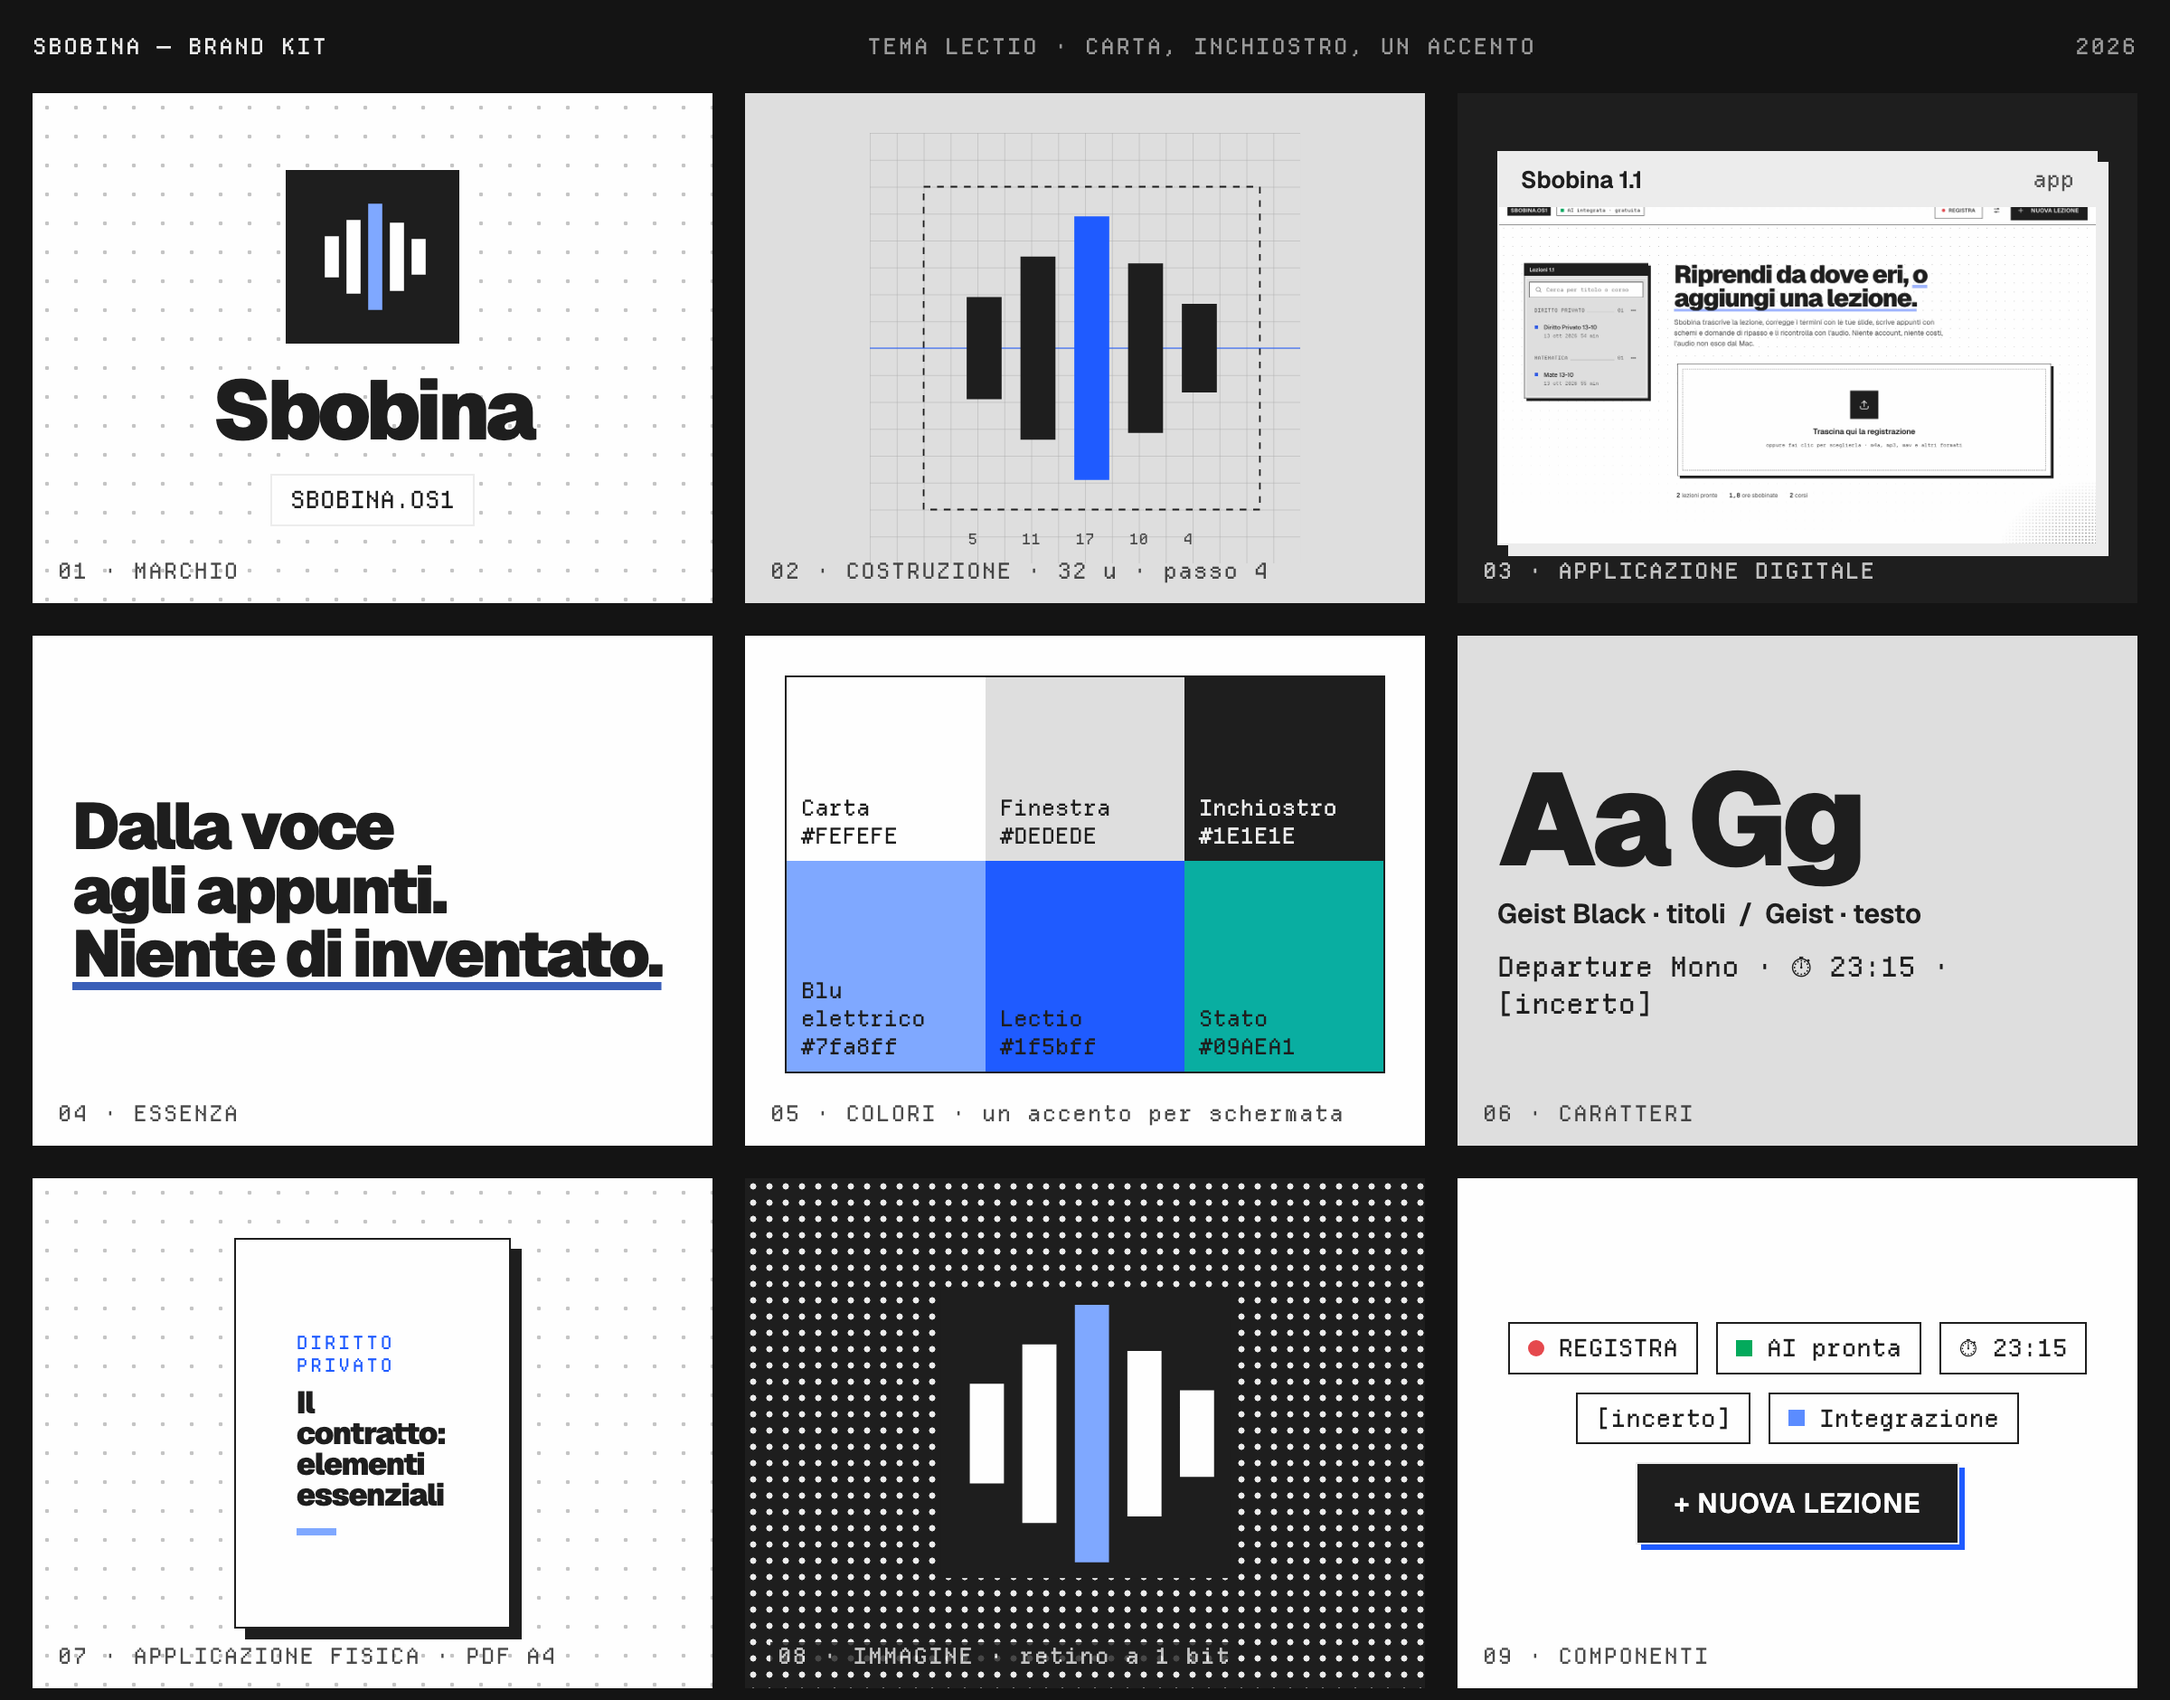
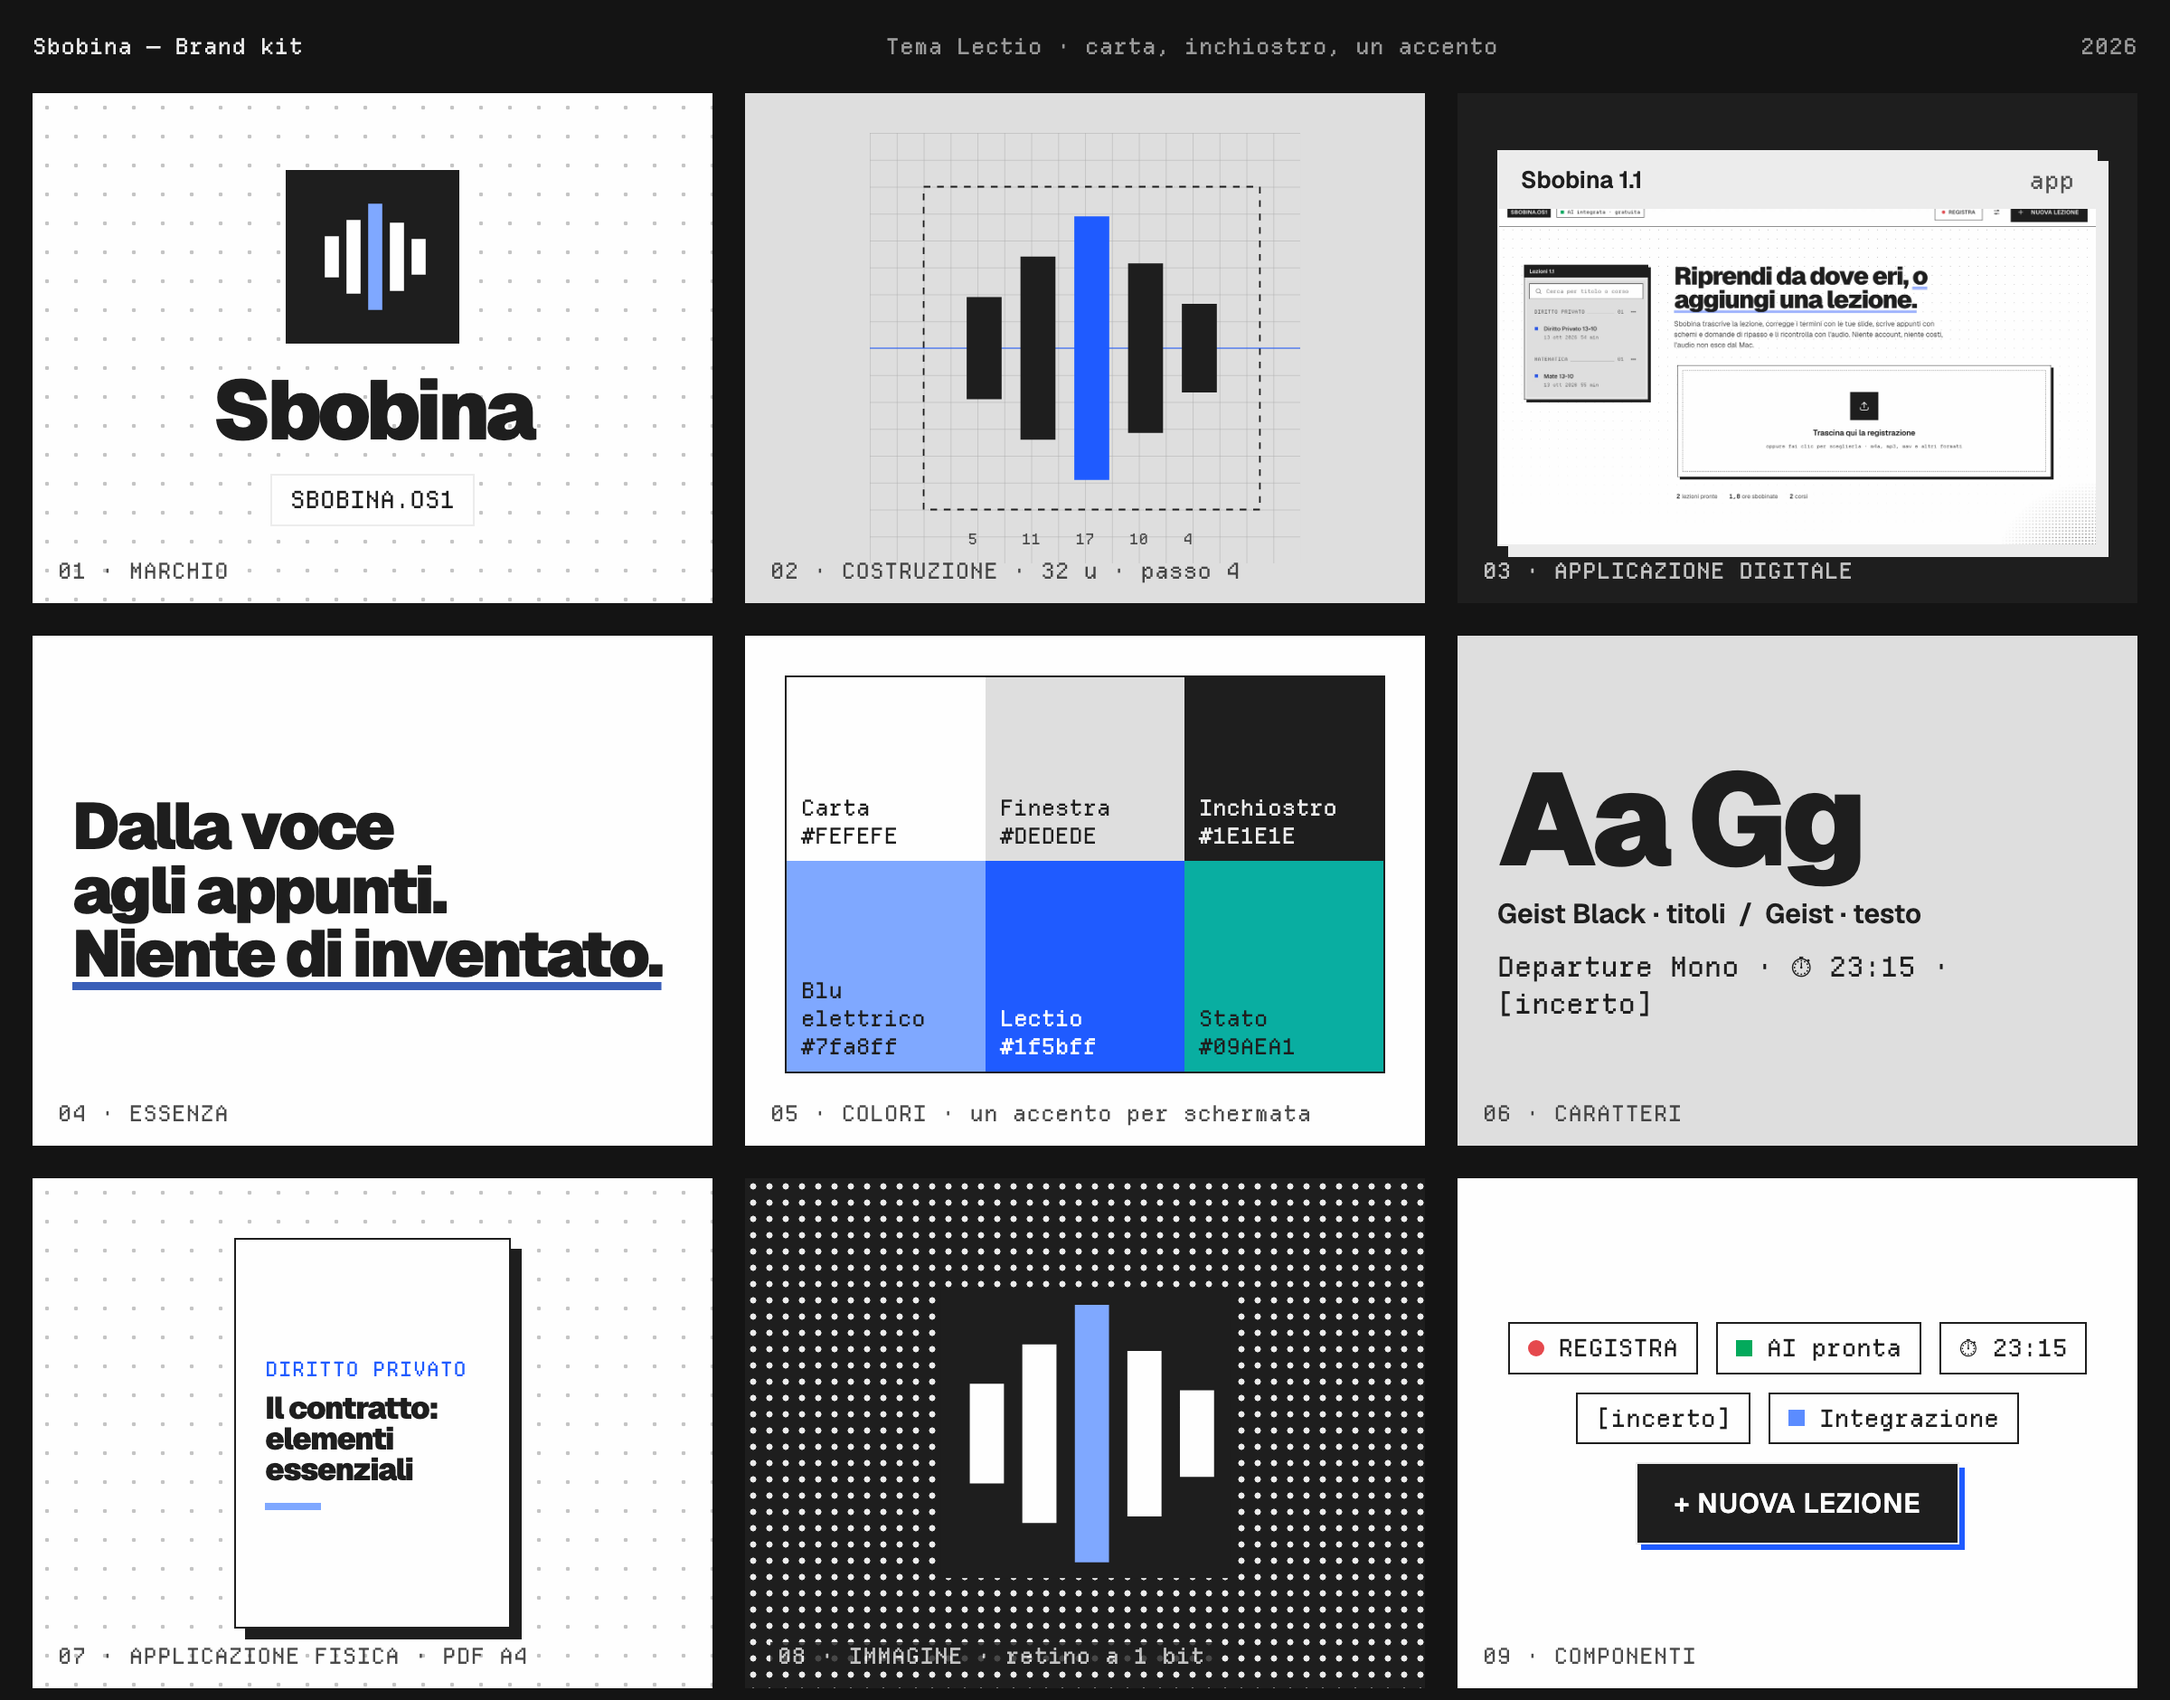
Site: fix impeccable findings (title-bar padding, no all-caps labels, brand-kit contrast, tracking and tiny text); drop the temporary ignores

diff --git a/docs/lectio.css b/docs/lectio.css
@@ -63,7 +63,7 @@ code, kbd, .mono { font-family: var(--mono); font-size: .92em; }
 /* --- impaginazione -------------------------------------------------------------- */
 main { max-width: 1180px; margin: 0 auto; padding: 0 clamp(16px, 4vw, 40px) 96px; }
 section { margin-top: 112px; scroll-margin-top: 80px; }
-.etichetta { font-family: var(--mono); font-size: 13px; color: var(--lieve); text-transform: uppercase; letter-spacing: .06em; }
+.etichetta { font-family: var(--mono); font-size: 14px; color: var(--lieve); letter-spacing: .02em; }
 h1, h2, h3 { margin: 0; }
 h1 { font-weight: 900; font-size: clamp(44px, 7.4vw, 96px); letter-spacing: -0.045em; line-height: .95; }
 h2 { font-weight: 900; font-size: clamp(32px, 4.6vw, 56px); letter-spacing: -0.04em; line-height: 1; margin: 10px 0 18px; }
@@ -75,10 +75,10 @@ p { max-width: 70ch; }
 /* --- finestre Lectio: barra nera, bordo 1px, ombra sfalsata, doppio filo -------- */
 .finestra { background: var(--finestra); border: 1px solid var(--inchiostro); box-shadow: var(--ombra); position: relative; }
 .finestra > .barra {
-  height: 30px; display: flex; align-items: center; justify-content: space-between; padding: 0 12px;
+  min-height: 30px; display: flex; align-items: center; justify-content: space-between; gap: 12px; padding: 8px 12px; line-height: 1.2;
   background: var(--inchiostro); color: var(--carta); font-size: 13px; font-weight: 600;
 }
-.finestra > .barra .mono { font-weight: 400; opacity: .75; }
+.finestra > .barra .mono { font-weight: 400; opacity: .75; font-size: 13px; }
 .finestra > .corpo { padding: 22px; position: relative; }
 .finestra > .corpo::after { content: ""; position: absolute; inset: 4px; border: 1px solid var(--carta); pointer-events: none; }
 .finestra.carta { background: var(--carta); }
@@ -142,7 +142,7 @@ pre .p { color: #5b8cff; }
 }
 .tavola > div.buio { background: #1e1e1e; color: #ececec; }
 .tavola > div.grigio { background: #dedede; }
-.tavola .n { position: absolute; left: 14px; bottom: 10px; font: 12px var(--mono); opacity: .8; letter-spacing: .06em; }
+.tavola .n { position: absolute; left: 14px; bottom: 10px; font: 12px var(--mono); opacity: .8; letter-spacing: .02em; }
 .tavola .puntini { background: #fefefe radial-gradient(circle, #c4c4c4 1px, transparent 1.3px) 0 0 / 16px 16px; }
 .marchio { width: 96px; height: 96px; display: block; }
 .parola { font-weight: 900; font-size: 46px; letter-spacing: -0.05em; line-height: 1; margin-top: 14px; }
@@ -153,8 +153,8 @@ pre .p { color: #5b8cff; }
 .tipo { align-self: stretch; text-align: left; }
 .tipo b { display: block; font-weight: 900; font-size: 72px; letter-spacing: -0.05em; line-height: .9; }
 .tipo span { font: 15px var(--mono); display: block; margin-top: 10px; }
-.copertina-pdf { width: 46%; aspect-ratio: 210 / 297; background: #fefefe; border: 1px solid #1e1e1e; box-shadow: 6px 6px 0 #1e1e1e; padding: 10%; display: flex; flex-direction: column; justify-content: center; gap: 6px; }
-.copertina-pdf i { font: normal 10px var(--mono); letter-spacing: .14em; color: #1f5bff; }
+.copertina-pdf { width: 46%; aspect-ratio: 210 / 297; background: #fefefe; border: 1px solid #1e1e1e; box-shadow: 6px 6px 0 #1e1e1e; padding: 18px 16px; display: flex; flex-direction: column; justify-content: center; gap: 6px; }
+.copertina-pdf i { font: normal 11px var(--mono); letter-spacing: .04em; color: #1f5bff; }
 .copertina-pdf b { font-weight: 900; font-size: 17px; letter-spacing: -0.04em; line-height: 1; }
 .copertina-pdf s { display: block; width: 26%; height: 4px; background: #7fa8ff; text-decoration: none; margin-top: 4px; }
 .manifesto { background: #1e1e1e radial-gradient(circle, #ececec 1.6px, transparent 1.9px) 0 0 / 9px 9px !important; }

diff --git a/docs/brandkit.html b/docs/brandkit.html
@@ -11,7 +11,7 @@
   html, body { background: #141414; }
   body::before, body::after { display: none; }
   .foglio { width: 1200px; margin: 0 auto; }
-  .intestazione { display: flex; justify-content: space-between; padding: 18px 18px 0; font: 12px var(--mono); color: #9a9a9a; letter-spacing: .08em; text-transform: uppercase; }
+  .intestazione { display: flex; justify-content: space-between; padding: 18px 18px 0; font: 12px var(--mono); color: #9a9a9a; letter-spacing: .02em; }
   .intestazione b { color: #ececec; font-weight: 400; }
 </style>
 </head>
@@ -68,7 +68,7 @@
         <span style="background:#dedede">Finestra<br>#DEDEDE</span>
         <span style="background:#1e1e1e;color:#ececec">Inchiostro<br>#1E1E1E</span>
         <span style="background:#7fa8ff">Blu elettrico<br>#7fa8ff</span>
-        <span style="background:#1f5bff;color:#1e1e1e">Lectio<br>#1f5bff</span>
+        <span style="background:#1f5bff;color:#fefefe">Lectio<br>#1f5bff</span>
         <span style="background:#09aea1;color:#1e1e1e">Stato<br>#09AEA1</span>
       </div>
       <span class="n">05 · COLORI · un accento per schermata</span>
